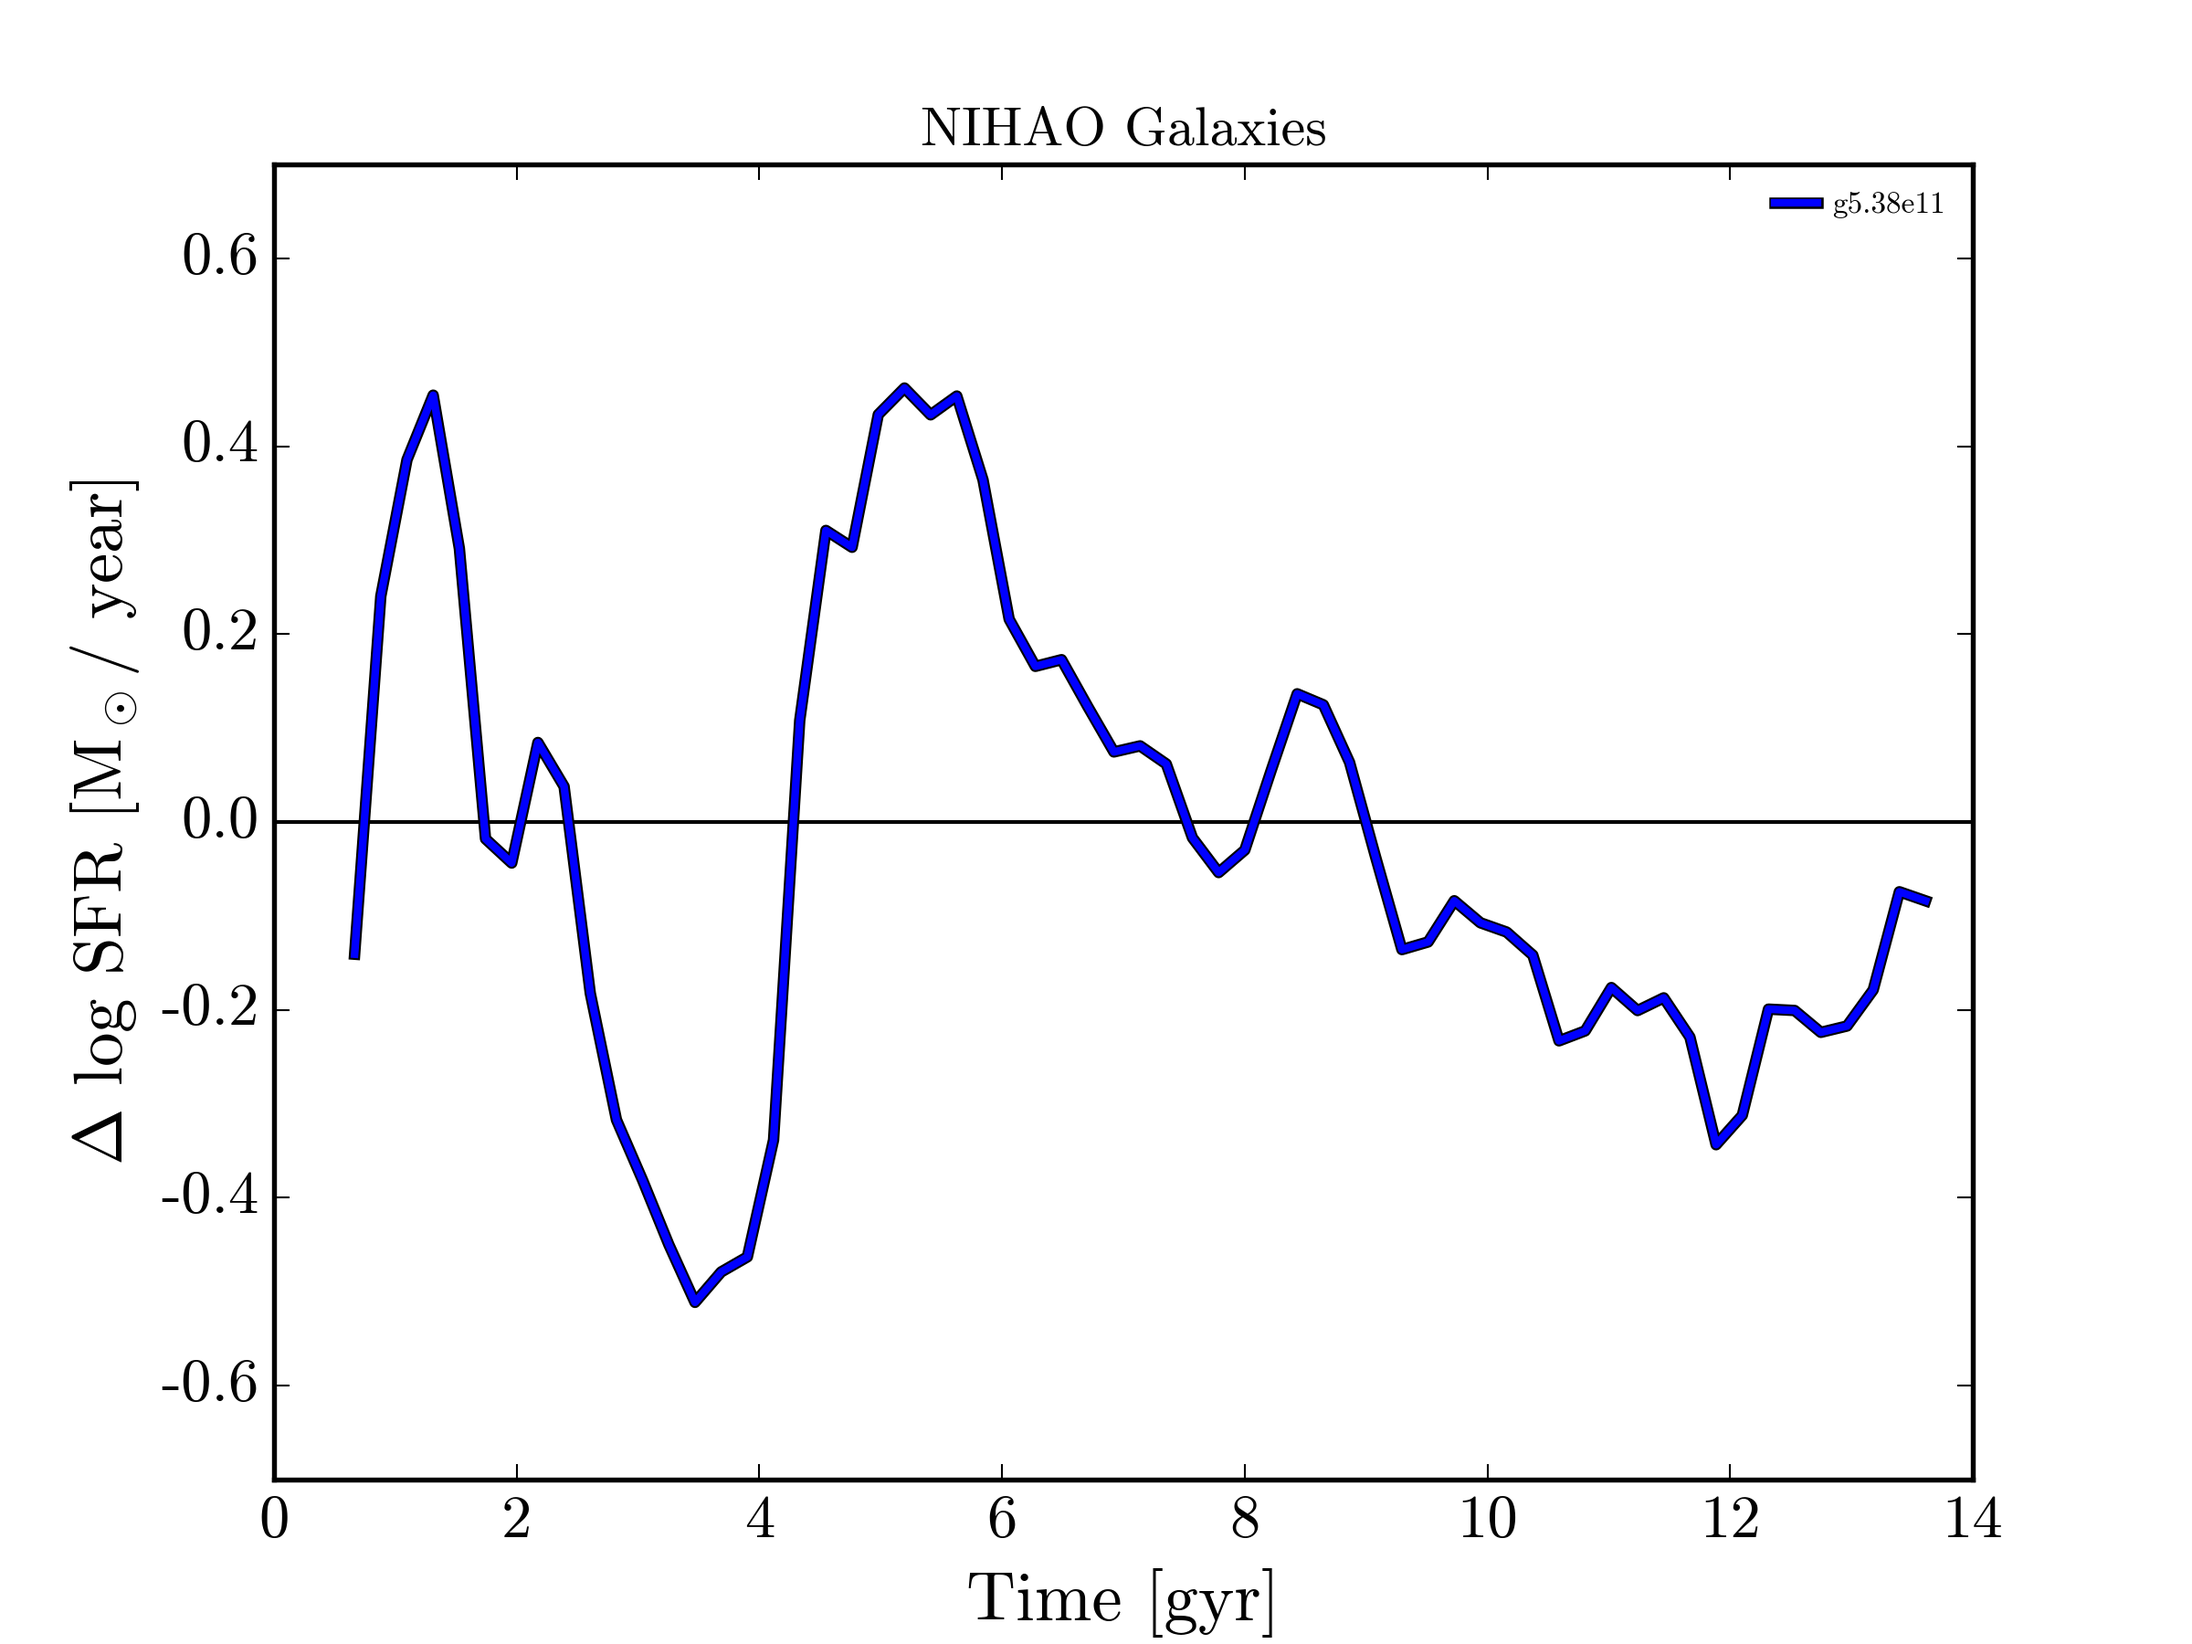
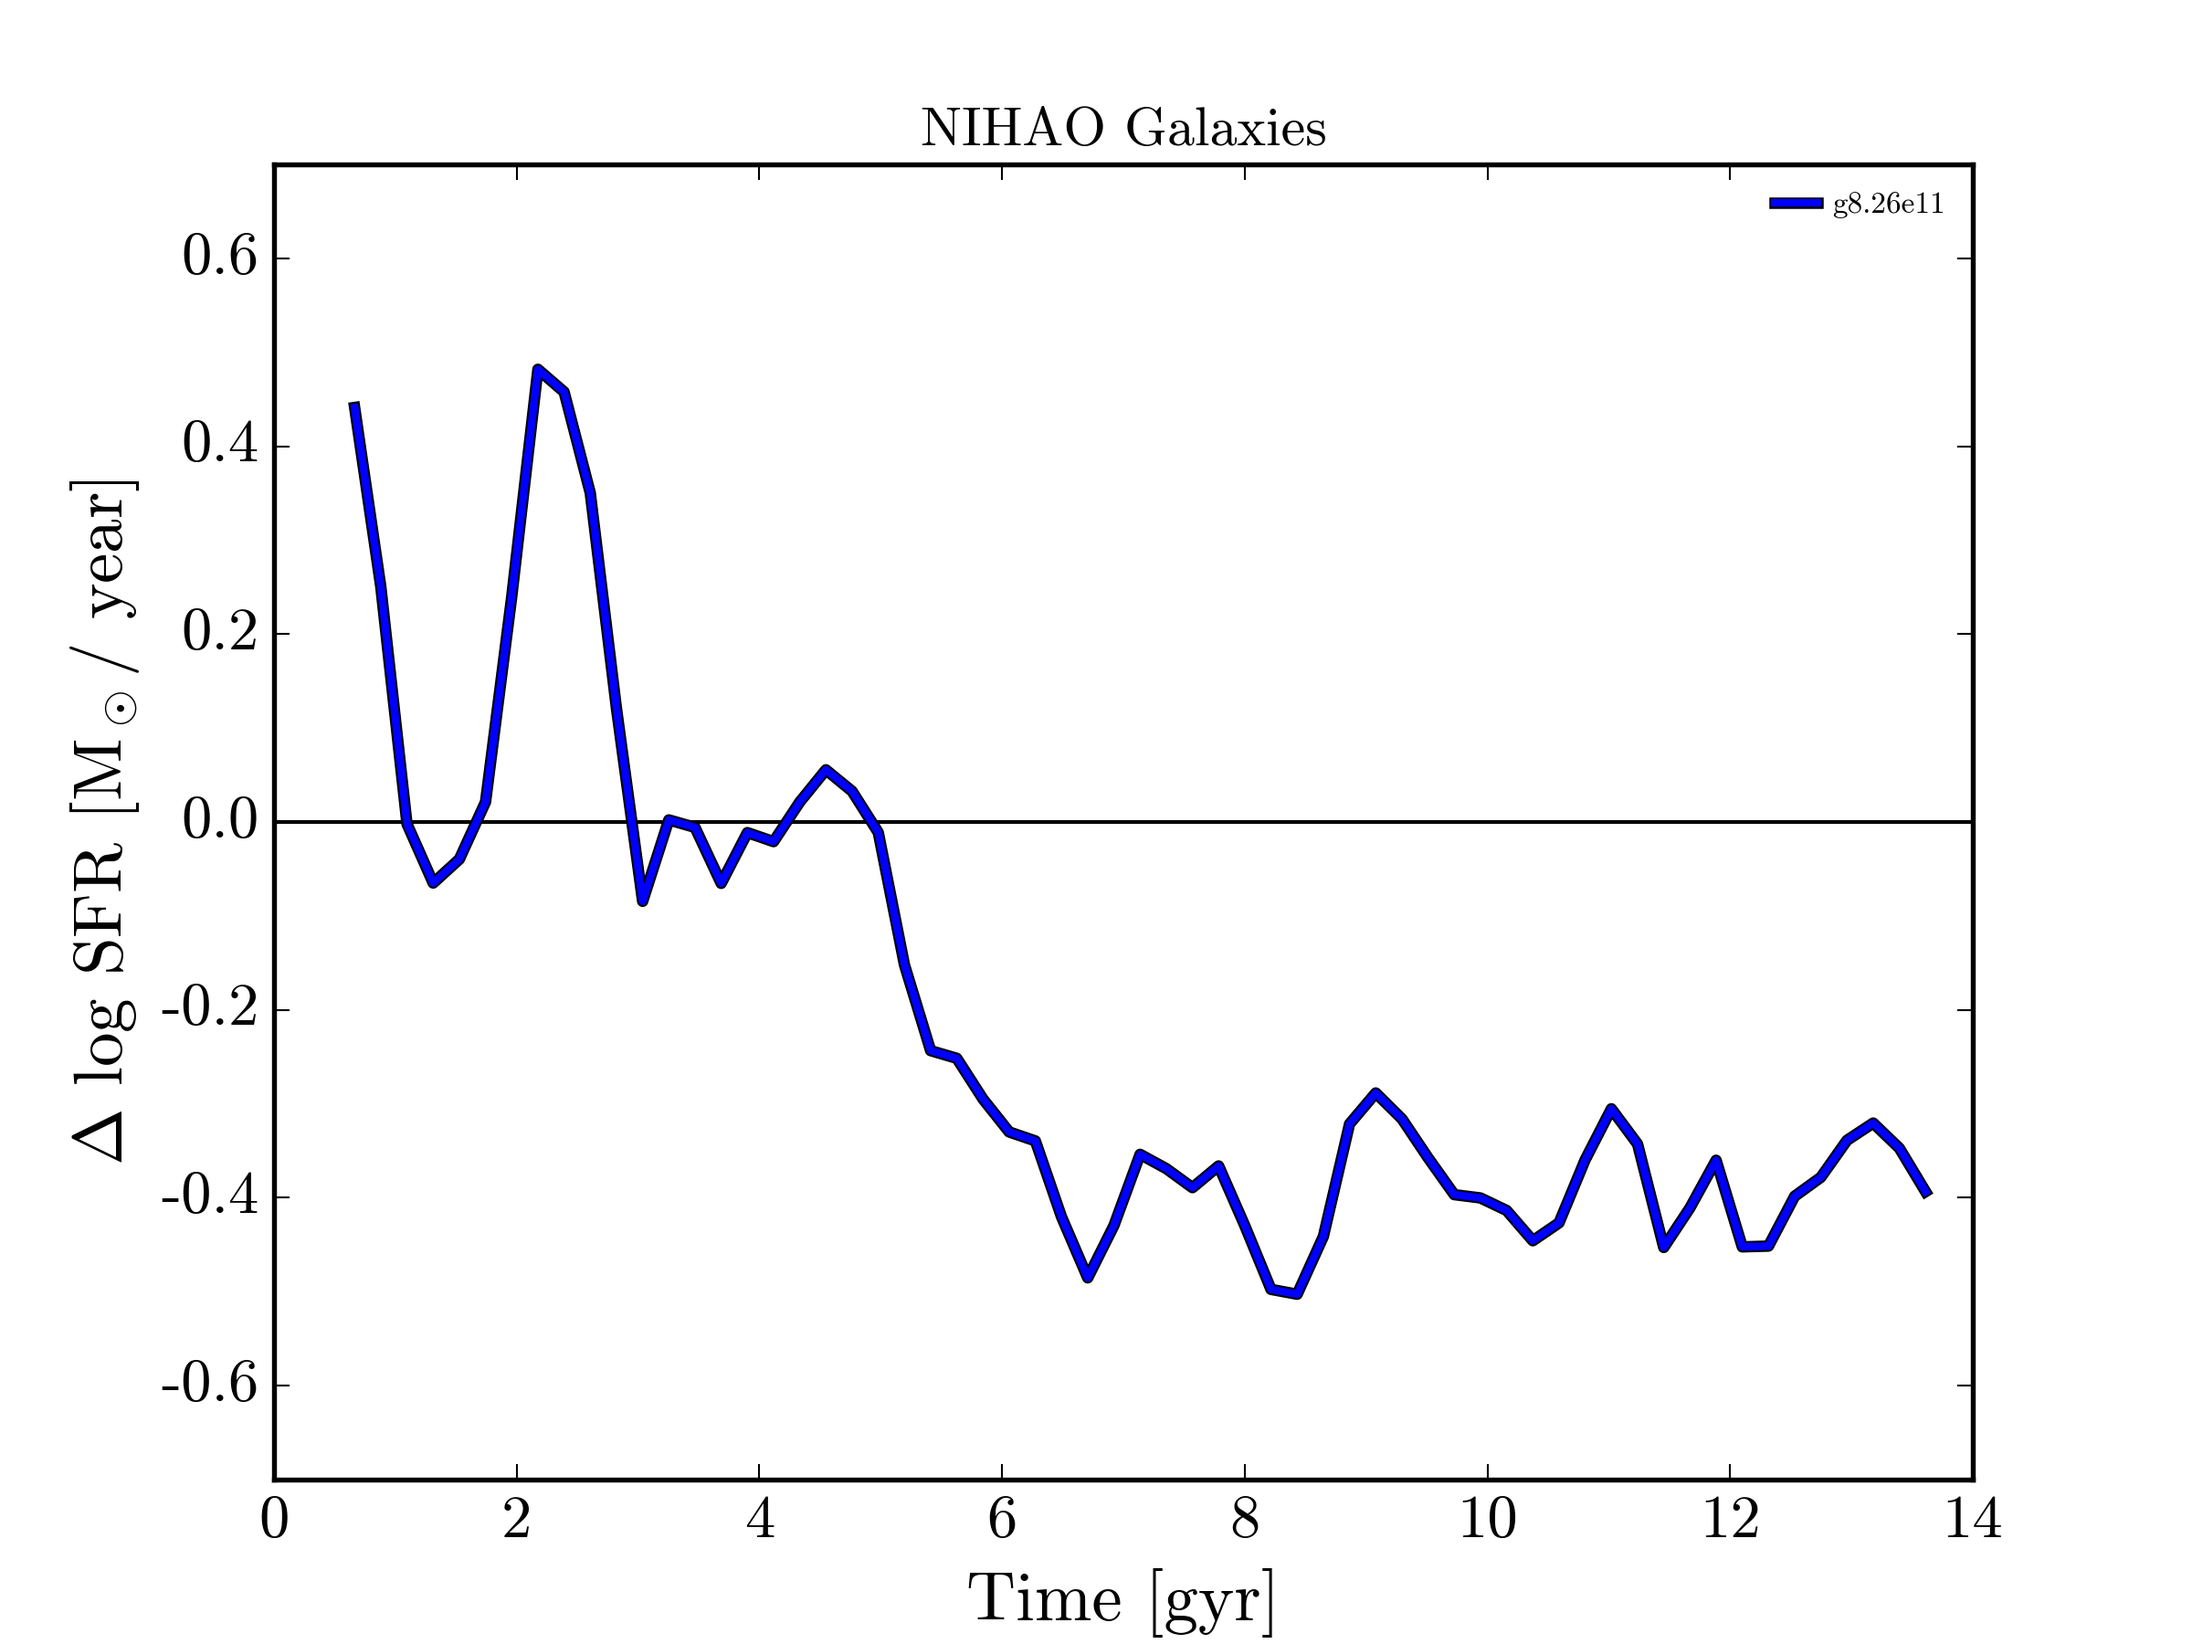
final 1 plots

diff --git a/4_del_sfr_1gal.py b/4_del_sfr_1gal.py
@@ -173,7 +173,7 @@ g1 = ['g8.26e11', 'g5.38e11']
 g2 = ['g8.26e11', 'g3.21e11']
 g3 = ['g8.26e11', 'g4.90e11']
 g4 = ['g8.26e11', 'g5.55e11']
-g5 = ['g5.38e11']
+g5 = ['g8.26e11']
 #gal_all = ['g1.95e10', 'g4.86e10', 'g6.77e10', 'g9.59e10', 'g1.05e11', 'g1.37e11', 'g1.52e11',
 # 'g2.04e11', 'g3.06e11', 'g3.21e11', 'g4.90e11', 'g5.38e11', 'g5.55e11', 'g6.96e11',  'g7.55e11',
 # 'g8.26e11', 'g8.28e11', 'g1.05e11', 'g1.12e12', 'g2.79e12']
